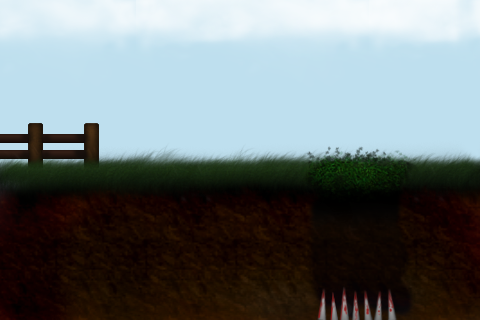
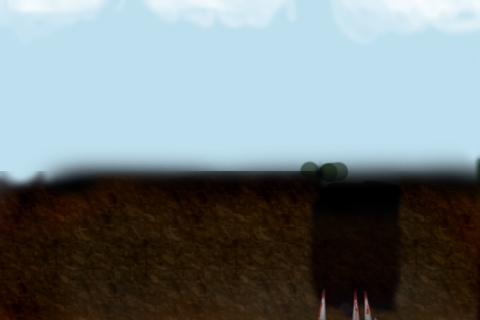
Various changes

diff --git a/Classes/LevelOneScene.m b/Classes/LevelOneScene.m
@@ -85,6 +85,13 @@
 	[[CCDirector sharedDirector] pushScene: [CCSlideInRTransition transitionWithDuration:1 scene:[LevelTwo scene]]];	
 }
 
+-(void)playSpike {
+	NSLog(@"playSpike");
+	//TODO
+//	[NSThread detachNewThreadSelector:@selector(play) toTarget:[audioPlayerDict objectForKey:@"knife"] withObject:nil];
+}
+
+
 -(void) tick: (ccTime) dt {
 	[super tick:dt];
 	#define FALL_DOWN_POS 345.0f
@@ -106,6 +113,8 @@
 			mode=ModeDead;
 			[NSThread detachNewThreadSelector:@selector(play) toTarget:[audioPlayerDict objectForKey:@"applause"] withObject:nil];
 			[self performSelector:@selector(levelCompleted) withObject:nil afterDelay:2];
+			[self performSelector:@selector(playSpike) withObject:nil afterDelay:0.8];
+//			[NSTimer timerWithTimeInterval:0.8 target:self selector:@selector(playSpike) userInfo:nil repeats:NO];
 
 		} else if (dcDist < DONKEY_CARROT_REACT_DISTANCE && dcDist > DONKEY_EAT_DIST) {
 			float moved = DONKEY_VEL*dt + (DONKEY_CARROT_REACT_DISTANCE-dcDist)*dt*DONKEY_ACC;
@@ -143,7 +152,6 @@
 		}
 	}
 }
-
 
 
 

diff --git a/Classes/LevelTwoScene.m b/Classes/LevelTwoScene.m
@@ -28,7 +28,7 @@
 		// addbackground
 		CGSize size = [[CCDirector sharedDirector] winSize];
 		CCSprite *background = [CCSprite spriteWithFile:@"background2.png"];
-		background.position = ccp( size.width /2 , size.height/2 );
+		background.position = ccp( size.width /2, size.height/2 );
 		[self addChild:background];
 		[self setIsTouchEnabled:YES];
 		[self schedule: @selector(tick:)];
@@ -65,7 +65,7 @@
 		[water runAction:[CCWaves3D actionWithWaves:100000 amplitude:40.0 grid:ccg(10,10) duration:200000]];
 		
 		CCSprite *foreground = [CCSprite spriteWithFile:@"bane-2-forgrund.png"];
-		foreground.position = ccp(300, 110);
+		foreground.position = ccp(275, 110);
 		[self addChild:foreground];
 
 		// play beach song

diff --git a/Classes/LevelScene.m b/Classes/LevelScene.m
@@ -22,6 +22,7 @@
 							[Helper prepAudio:@"applause"],@"applause",
 							[Helper prepAudio:@"trombone"],@"trombone",
 							[Helper prepAudio:@"thebeech"],@"thebeech",
+//							[Helper prepAudio:@"knife_hit"],@"knife",
 							nil] retain];
 		
 		// Create carrot and its animations
